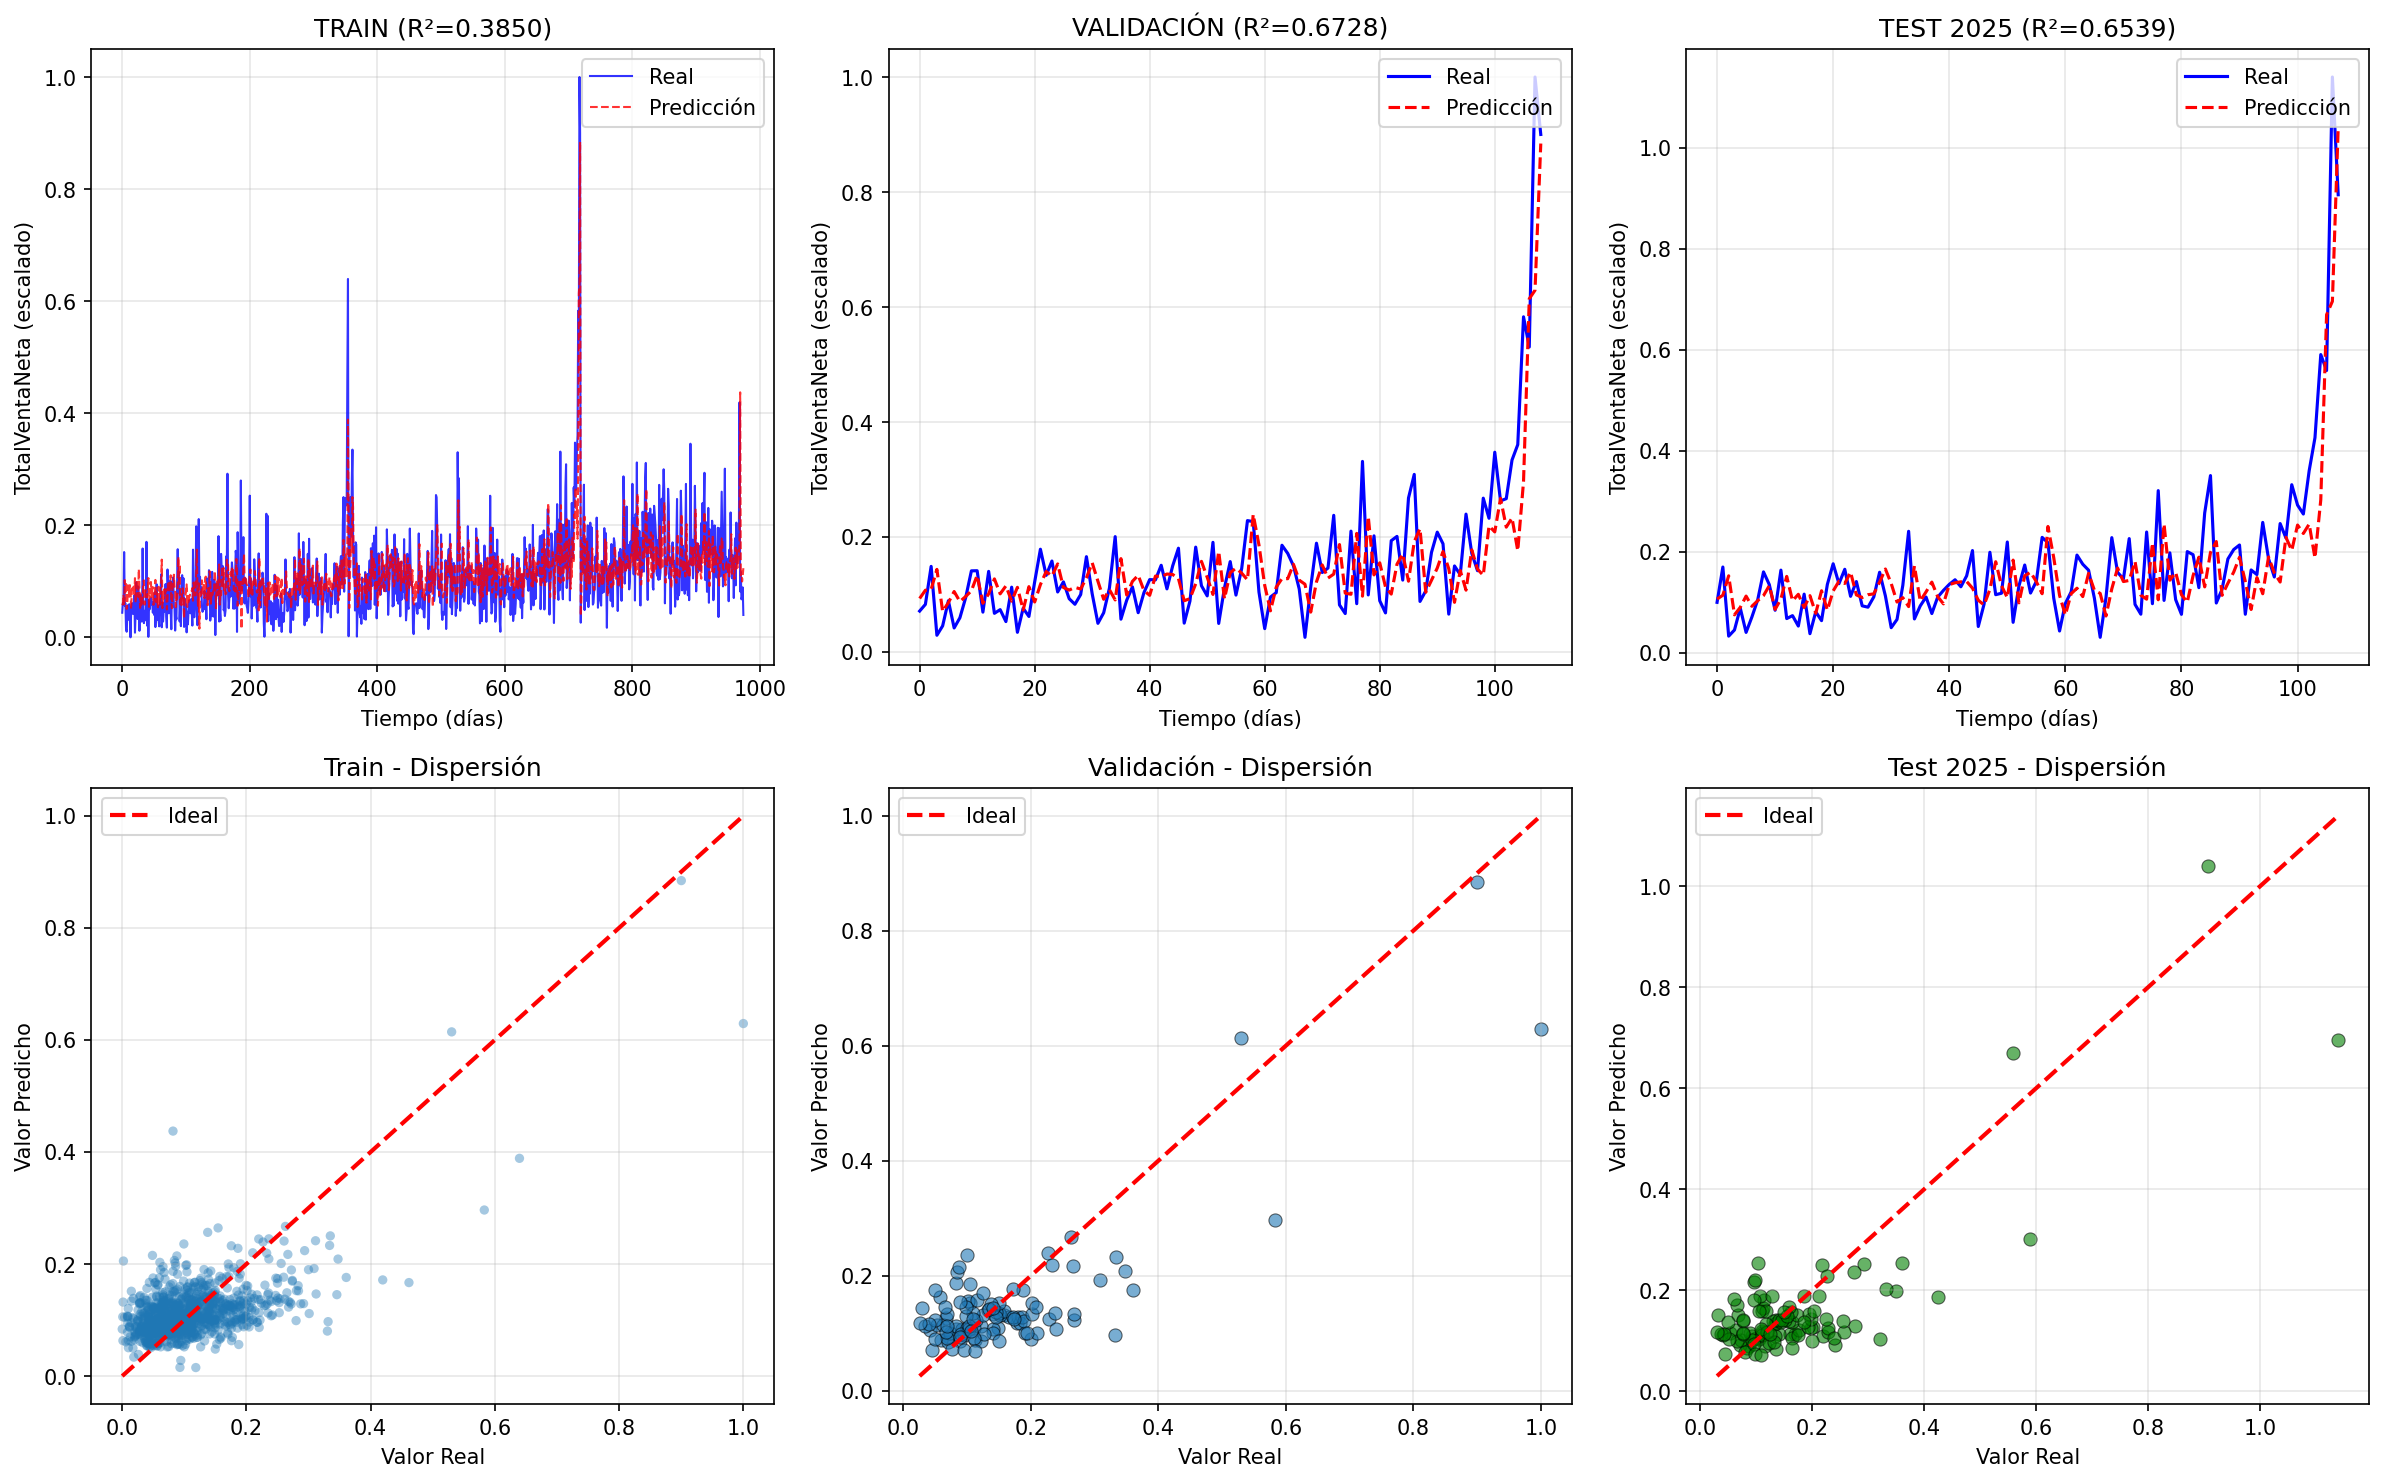
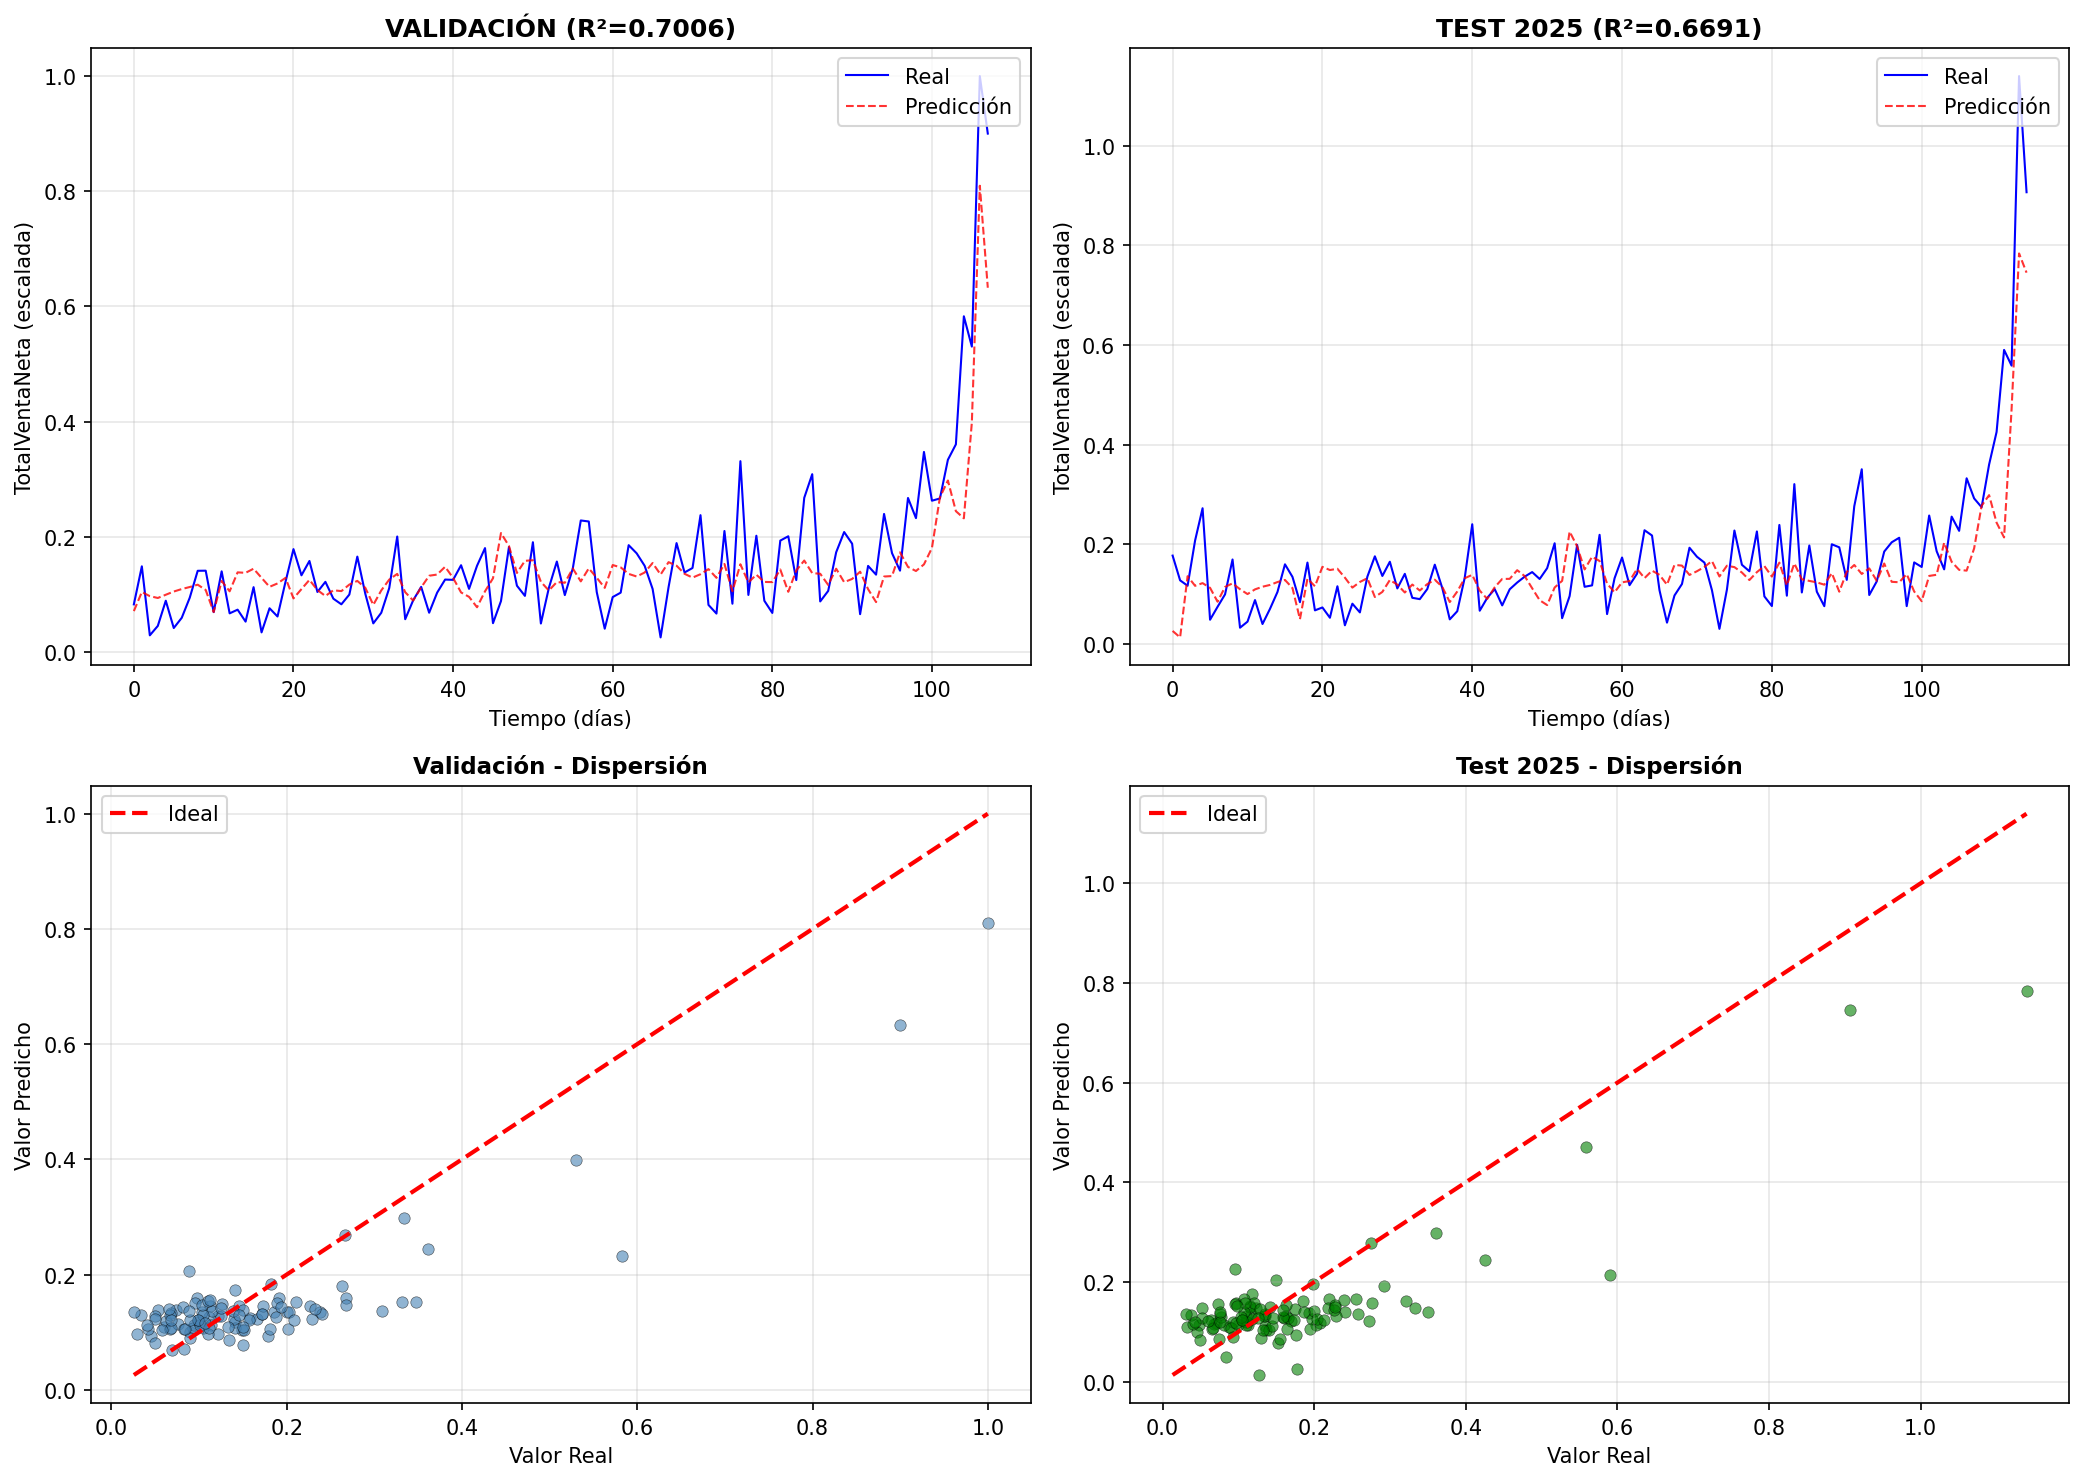
Graficas Val Test

diff --git a/README.md b/README.md
@@ -174,48 +174,51 @@ Tabla 3. Variables de control modelo v2.
 
 ### Ecuación del Modelo SINDy v2
 
-El modelo SINDy identificó la siguiente ecuación dinámica discreta con **31 términos activos** (threshold = 0.05):
+El modelo SINDy identificó la siguiente ecuación dinámica discreta con **34 términos activos** (threshold = 0.01, alpha = 0.05):
 
 ```
-y(k+1) = 0.1636 - 0.1417·y - 0.4939·r + 0.5987·x - 0.1583·n - 0.1758·k + 0.1029·l
-         - 0.2581·y² + 0.6257·y·r + 0.6399·y·x - 0.1679·y·n - 0.3458·y·k
-         - 0.0871·y·l + 0.2174·r² - 0.5765·r·x + 0.3080·r·n + 0.4149·r·k
-         - 0.1191·r·l + 0.0935·x² - 0.4581·x·n - 0.0748·x·k + 0.2174·x·l
-         + 0.2032·n² + 0.1849·n·k - 0.0938·n·l + 0.1413·k² - 0.0568·k·l
-         - 0.0649·l² + términos adicionales
+y[k+1] = 0.006
+       + 0.529·y[k]
+       - 0.199·r[k] + 0.674·x[k] - 0.071·n[k] - 0.107·k[k] + 0.036·l[k] - 0.009·u[k]
+       + 1.103·y[k]²
+       - 0.482·y[k]·r[k] - 0.198·y[k]·x[k] - 2.742·y[k]·k[k] - 0.221·y[k]·l[k] - 0.028·y[k]·u[k]
+       + 0.294·r[k]² - 0.259·r[k]·x[k] + 0.397·r[k]·n[k] + 0.992·r[k]·k[k] + 0.121·r[k]·l[k]
+       - 1.728·x[k]² + 0.217·x[k]·n[k] + 0.815·x[k]·k[k] + 0.261·x[k]·l[k] - 0.117·x[k]·u[k]
+       + 0.735·n[k]² - 1.260·n[k]·k[k] + 0.107·n[k]·u[k]
+       + 0.664·k[k]² + 0.330·k[k]·l[k] + 0.086·k[k]·u[k]
+       - 0.076·l[k]²
 ```
 
 ### Métricas de Rendimiento
 
-| Conjunto | Registros | R² | RMSE | MAE | MAPE |
-|----------|-----------|------|--------|-------|-------|
-| **Train** | 975 | 0.3850 | 0.0630 | 0.0472 | - |
-| **Validación** | 109 | 0.6728 | 0.0811 | 0.0565 | 50.60% |
-| **Test (2025)** | 109 | 0.6539 | 0.0893 | 0.0613 | 48.32% |
+| Conjunto | Registros | R² |
+|----------|-----------|------|
+| **Validación** | 109 | 0.7006 |
+| **Test (2025)** | 109 | 0.6691 |
 
 Tabla 4. Métricas de rendimiento del modelo v2.
 
 **Correlación de Pearson:**
-- Validación: r = 0.8279 (p-value < 0.001)
-- Test: r = 0.8132 (p-value < 0.001)
+- Validación: r = 0.8370 (p-value < 0.001)
+- Test: r = 0.8180 (p-value < 0.001)
 
 ### Resultados Gráficos
 
-#### Comparación Train, Validación y Test
+#### Comparación Validación y Test
 
-![Resultados Train-Val-Test](Docs/Images/v2/resultados_train_test_val.png)
+![Resultados Val-Test](Docs/Images/v2/resultados_train_test_val.png)
 
-*Figura 1. Series temporales y gráficos de dispersión para los conjuntos de entrenamiento (R²=0.3850), validación (R²=0.6728) y test (R²=0.6539).*
+*Figura 1. Series temporales y gráficos de dispersión para los conjuntos de validación (R²=0.7006) y test (R²=0.6691).*
 
 #### Predicción vs Real en Test (2025)
 
 ![Test Predicción vs Real](Docs/Images/v2/test_prediction_vs_real.png)
 
-*Figura 2. Comparación detallada entre valores reales y predicciones del modelo SINDy para el conjunto de test (período 2025). Izquierda: serie temporal. Derecha: gráfico de dispersión con correlación r=0.8132.*
+*Figura 2. Comparación detallada entre valores reales y predicciones del modelo SINDy para el conjunto de test (período 2025). Izquierda: serie temporal. Derecha: gráfico de dispersión con correlación r=0.8180.*
 
 ### Conclusiones
 
-1. **Capacidad de Generalización**: El modelo SINDy demuestra buena capacidad de generalización, manteniendo un R² de 0.6539 en el conjunto de test (datos de 2025) que no fueron vistos durante el entrenamiento.
+1. **Capacidad de Generalización**: El modelo SINDy demuestra buena capacidad de generalización, manteniendo un R² de 0.6691 en el conjunto de test (datos de 2025) que no fueron vistos durante el entrenamiento.
 
 2. **Correlación Significativa**: Las correlaciones de Pearson superiores a 0.81 en validación y test indican una relación fuerte y estadísticamente significativa entre las predicciones y los valores reales.
 

diff --git a/README.en.md b/README.en.md
@@ -179,48 +179,51 @@ Table 3. Control variables for model v2.
 
 ### SINDy Model Equation v2
 
-The SINDy model identified the following discrete dynamic equation with **31 active terms** (threshold = 0.05):
+The SINDy model identified the following discrete dynamic equation with **34 active terms** (threshold = 0.01, alpha = 0.05):
 
 ```
-y(k+1) = 0.1636 - 0.1417·y - 0.4939·r + 0.5987·x - 0.1583·n - 0.1758·k + 0.1029·l
-         - 0.2581·y² + 0.6257·y·r + 0.6399·y·x - 0.1679·y·n - 0.3458·y·k
-         - 0.0871·y·l + 0.2174·r² - 0.5765·r·x + 0.3080·r·n + 0.4149·r·k
-         - 0.1191·r·l + 0.0935·x² - 0.4581·x·n - 0.0748·x·k + 0.2174·x·l
-         + 0.2032·n² + 0.1849·n·k - 0.0938·n·l + 0.1413·k² - 0.0568·k·l
-         - 0.0649·l² + additional terms
+y[k+1] = 0.006
+       + 0.529·y[k]
+       - 0.199·r[k] + 0.674·x[k] - 0.071·n[k] - 0.107·k[k] + 0.036·l[k] - 0.009·u[k]
+       + 1.103·y[k]²
+       - 0.482·y[k]·r[k] - 0.198·y[k]·x[k] - 2.742·y[k]·k[k] - 0.221·y[k]·l[k] - 0.028·y[k]·u[k]
+       + 0.294·r[k]² - 0.259·r[k]·x[k] + 0.397·r[k]·n[k] + 0.992·r[k]·k[k] + 0.121·r[k]·l[k]
+       - 1.728·x[k]² + 0.217·x[k]·n[k] + 0.815·x[k]·k[k] + 0.261·x[k]·l[k] - 0.117·x[k]·u[k]
+       + 0.735·n[k]² - 1.260·n[k]·k[k] + 0.107·n[k]·u[k]
+       + 0.664·k[k]² + 0.330·k[k]·l[k] + 0.086·k[k]·u[k]
+       - 0.076·l[k]²
 ```
 
 ### Performance Metrics
 
-| Set | Records | R² | RMSE | MAE | MAPE |
-|-----|---------|------|--------|-------|-------|
-| **Train** | 975 | 0.3850 | 0.0630 | 0.0472 | - |
-| **Validation** | 109 | 0.6728 | 0.0811 | 0.0565 | 50.60% |
-| **Test (2025)** | 109 | 0.6539 | 0.0893 | 0.0613 | 48.32% |
+| Set | Records | R² |
+|-----|---------|------|
+| **Validation** | 109 | 0.7006 |
+| **Test (2025)** | 109 | 0.6691 |
 
 Table 4. Performance metrics for model v2.
 
 **Pearson Correlation:**
-- Validation: r = 0.8279 (p-value < 0.001)
-- Test: r = 0.8132 (p-value < 0.001)
+- Validation: r = 0.8370 (p-value < 0.001)
+- Test: r = 0.8180 (p-value < 0.001)
 
 ### Graphical Results
 
-#### Train, Validation and Test Comparison
+#### Validation and Test Comparison
 
-![Train-Val-Test Results](Docs/Images/v2/resultados_train_test_val.png)
+![Val-Test Results](Docs/Images/v2/resultados_train_test_val.png)
 
-*Figure 1. Time series and scatter plots for training (R²=0.3850), validation (R²=0.6728) and test (R²=0.6539) sets.*
+*Figure 1. Time series and scatter plots for validation (R²=0.7006) and test (R²=0.6691) sets.*
 
 #### Prediction vs Real in Test (2025)
 
 ![Test Prediction vs Real](Docs/Images/v2/test_prediction_vs_real.png)
 
-*Figure 2. Detailed comparison between real values and SINDy model predictions for the test set (2025 period). Left: time series. Right: scatter plot with correlation r=0.8132.*
+*Figure 2. Detailed comparison between real values and SINDy model predictions for the test set (2025 period). Left: time series. Right: scatter plot with correlation r=0.8180.*
 
 ### Conclusions
 
-1. **Generalization Capability**: The SINDy model demonstrates good generalization capability, maintaining an R² of 0.6539 on the test set (2025 data) that was not seen during training.
+1. **Generalization Capability**: The SINDy model demonstrates good generalization capability, maintaining an R² of 0.6691 on the test set (2025 data) that was not seen during training.
 
 2. **Significant Correlation**: Pearson correlations above 0.81 in validation and test indicate a strong and statistically significant relationship between predictions and actual values.
 
